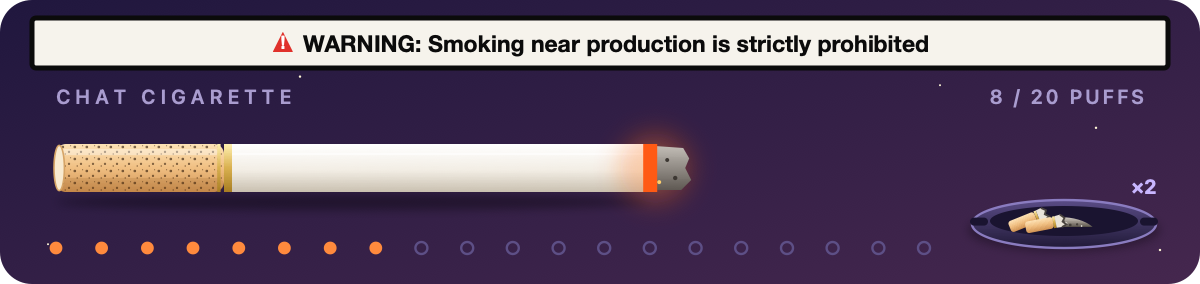
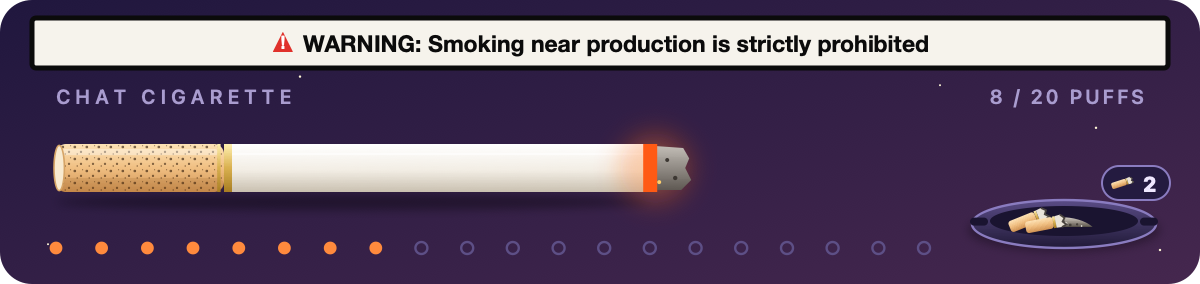
Animations: pull from the pack and light, roll a joint, stub it out; ashtray count badge
- first puff: a cigarette slides out of the pack and a lighter lights it; a joint rolls, then lights
- burn-out card: the newest butt drops into the ashtray and is stubbed out (sparks + smoke)
- a count badge on both ashtrays, always shown
- remember a joint picked with the pre-0.4 /smoke
- 34 tests

Changed region(s): [[0.8942, 0.5634, 0.9867, 0.7324]]

diff --git a/hooks/art.ts b/hooks/art.ts
@@ -79,6 +79,7 @@ function defs(night: number): string {
 <linearGradient id="night" x1="0" y1="0" x2="1" y2="0"><stop offset="0" stop-color="#ffe6a8"/><stop offset="1" stop-color="#c8b6ff"/></linearGradient>
 <linearGradient id="tray" x1="0" y1="0" x2="0" y2="1"><stop offset="0" stop-color="#5a4c86"/><stop offset="1" stop-color="#211a38"/></linearGradient>
 <radialGradient id="glow"><stop offset="0" stop-color="#ffd27a"/><stop offset=".35" stop-color="#ff7a1a" stop-opacity=".85"/><stop offset="1" stop-color="#ff3d00" stop-opacity="0"/></radialGradient>
+<linearGradient id="flame" x1="0" y1="1" x2="0" y2="0"><stop offset="0" stop-color="#3b6cff"/><stop offset=".22" stop-color="#ffd84a"/><stop offset=".65" stop-color="#ff8a1a"/><stop offset="1" stop-color="#ff4a00" stop-opacity=".2"/></linearGradient>
 <radialGradient id="leafGlow"><stop offset="0" stop-color="#ff9a3c" stop-opacity=".45"/><stop offset="1" stop-color="#ff9a3c" stop-opacity="0"/></radialGradient>
 <filter id="blur" x="-50%" y="-50%" width="200%" height="200%"><feGaussianBlur stdDeviation="2.2"/></filter>
 <filter id="soft" x="-50%" y="-50%" width="200%" height="200%"><feGaussianBlur stdDeviation="5"/></filter>
@@ -255,6 +256,40 @@ function ashHeap(cx: number, base: number, maxW: number, maxH: number, ash: numb
   return `<path d="M ${(cx - w).toFixed(1)} ${base} C ${(cx - w * 0.55).toFixed(1)} ${(base - h * 1.35).toFixed(1)} ${(cx + w * 0.55).toFixed(1)} ${(base - h * 1.35).toFixed(1)} ${(cx + w).toFixed(1)} ${base} Z" fill="url(#ashHeap)"/>${specks}`
 }
 
+// عدّاد المكتة: كم عقب فيها اليوم — دايماً ظاهر (حتى صفر).
+function countBadge(x: number, y: number, n: number): string {
+  return `<g data-count="${n}"><rect x="${x - 17}" y="${y - 9}" width="34" height="17" rx="8.5" fill="#241b40" stroke="#8a7cc0" stroke-width="1"/>
+${buttShape('cigarette', x - 7, y - 0.5, -18, 0.45)}<text x="${x + 7}" y="${y + 3.8}" text-anchor="middle" font-family="${FONT}" font-size="10.5" font-weight="800" fill="#efe8ff">${n}</text></g>`
+}
+
+// قدّاحة + شعلة بتولّع الطرف (حركة بتصير مرة وحدة لما تنولّع سيجارة/جوينت جديد).
+function lighter(x: number, y: number): string {
+  return `<g opacity="0"><animate attributeName="opacity" values="0;1;1;0" keyTimes="0;.12;.75;1" begin=".8s" dur="1.1s" fill="freeze"/>
+<rect x="${x - 7}" y="${y + 9}" width="15" height="26" rx="3" fill="#d23a2e"/><rect x="${x - 7}" y="${y + 4}" width="15" height="6" rx="1.5" fill="#c9c9cf"/>
+<path d="M ${x} ${y + 4} c -5 -4 -4 -10 0 -16 c 4 6 5 12 0 16 z" fill="url(#flame)"><animateTransform attributeName="transform" type="scale" values="1 1;1 1.12;1 .95;1 1.08" dur=".25s" repeatCount="indefinite" additive="sum"/></path></g>`
+}
+
+// شرار ونفخة دخان لما العقب ينطفى بالمكتة.
+function stubPuff(x: number, y: number, at: number): string {
+  let sparks = ''
+  const dirs = [[-14, -9], [-6, -15], [4, -14], [13, -8], [16, 1]]
+  dirs.forEach(([dx, dy], i) => {
+    sparks += `<circle cx="${x}" cy="${y}" r="${1.4 - i * 0.12}" fill="#ffb347" opacity="0">
+<animate attributeName="opacity" values="0;1;0" begin="${at}s" dur=".55s" fill="freeze"/>
+<animateTransform attributeName="transform" type="translate" values="0 0; ${dx} ${dy}" begin="${at}s" dur=".55s" fill="freeze"/></circle>`
+  })
+  return `${sparks}<circle cx="${x}" cy="${y - 3}" r="3" fill="none" stroke="#ddd6f3" stroke-width="2.2" opacity="0" filter="url(#blur)">
+<animate attributeName="r" values="3;18" begin="${at}s" dur="1s" fill="freeze"/><animate attributeName="opacity" values="0;.75;0" begin="${at}s" dur="1s" fill="freeze"/></circle>`
+}
+
+// آخر عقب بينزل عالمكتة وبينطفى (مرة وحدة لما يطلع كرت النهاية).
+function stubIn(shape: string, x: number, y: number): string {
+  return `<g data-stub="1"><g opacity="0"><animate attributeName="opacity" values="0;1" dur=".2s" fill="freeze"/>
+<animateTransform attributeName="transform" type="translate" values="118 -30; 6 -5; 0 0" keyTimes="0;.78;1" dur="1.1s" fill="freeze"/>
+<g><animateTransform attributeName="transform" type="rotate" values="-55 ${x} ${y}; 10 ${x} ${y}; 0 ${x} ${y}" keyTimes="0;.82;1" dur="1.1s" fill="freeze"/>${shape}</g></g>
+${stubPuff(x + 16, y, 1.05)}</g>`
+}
+
 // المكتة (المنفضة) بآخر السيجارة: الرماد فيها بيزيد مع كل سحبة، وأعقاب اليوم بتضل فيها.
 function ashtray(butts: readonly Style[], ash: number): string {
   const cx = 532
@@ -271,9 +306,7 @@ ${ashHeap(cx - 2, cy + 1.5, 24, 10, ash)}`
   shown.forEach((b, i) => {
     out += buttShape(b, cx - 18 + i * 8.5, cy - 2 + (i % 2) * 2, -22 + i * 11, 0.82)
   })
-  if (n > 0) {
-    out += `<text x="${cx + 40}" y="${cy - 15}" text-anchor="middle" font-family="${FONT}" font-size="10" font-weight="700" fill="#c8b6ff">×${n}</text>`
-  }
+  out += countBadge(cx + 36, cy - 20, n)
   return out + '</g>'
 }
 
@@ -287,7 +320,7 @@ function fallingAsh(fromX: number, fromY: number): string {
 }
 
 // المنفضة الكبيرة بكرت المشاركة: أعقاب اليوم كلها مفروشة فيها.
-function bigTray(butts: readonly Style[]): string {
+function bigTray(butts: readonly Style[], animated: boolean): string {
   const n = butts.length
   const shown = butts.slice(-12)
   const m = shown.length
@@ -300,11 +333,10 @@ ${ashHeap(300, 122, 70, 15, 1)}`
     const x = 300 + (i - (m - 1) / 2) * spacing
     const y = 114 + (i % 2 ? 5 : 0)
     const rot = (i % 2 ? 14 : -12) + (((i * 37) % 9) - 4)
-    out += buttShape(b, x, y, rot, 1.35)
+    const shape = buttShape(b, x, y, rot, 1.35)
+    out += animated && i === m - 1 ? stubIn(shape, x, y) : shape
   })
-  if (n > m) {
-    out += `<text x="462" y="124" font-family="${FONT}" font-size="12" font-weight="700" fill="#c8b6ff">+${n - m}</text>`
-  }
+  out += countBadge(478, 108, n)
   return out + '</g>'
 }
 
@@ -377,10 +409,29 @@ function burning(s: Scene, f: number): string {
     }
   }
 
+  // أول نَفَس: سيجارة بتطلع من الباكيت، أو جوينت بينلفّ — وبعدين القدّاحة بتولّعه (مرة وحدة).
+  const intro = s.animated && s.puffs === 1 && !s.isUnlit
+  if (intro) {
+    stick = isJoint
+      ? `<g data-intro="roll" transform="translate(0 ${cy})"><g><animateTransform attributeName="transform" type="scale" values="1 0.06; 1 1.18; 1 1" keyTimes="0;.72;1" dur="1.1s" fill="freeze"/><g transform="translate(0 ${-cy})">${stick}</g></g></g>`
+      : `<g data-intro="light"><animateTransform attributeName="transform" type="translate" values="-150 0; 8 0; 0 0" keyTimes="0;.8;1" dur=".95s" fill="freeze"/>${stick}</g>`
+    lit = `<g opacity="0"><animate attributeName="opacity" values="0;1" begin="1.15s" dur=".35s" fill="freeze"/>${lit}</g>${lighter(end + 8, cy + hh + 2)}`
+  }
+  // الباكيت: بيضل لحد ما السيجارة تطلع منه، وبعدين بيختفي.
+  const pack =
+    intro && !isJoint
+      ? `<g><animate attributeName="opacity" values="1;1;0" keyTimes="0;.6;1" dur="1.5s" fill="freeze"/>
+<rect x="6" y="${cy - 30}" width="54" height="60" rx="4" fill="#f4f1ea" stroke="#bdb6a8" stroke-width="1"/>
+<rect x="6" y="${cy - 30}" width="54" height="17" rx="4" fill="#c8282a"/><rect x="6" y="${cy - 18}" width="54" height="5" fill="#c8282a"/>
+<path d="M 6 ${cy + 2} L 33 ${cy + 16} L 60 ${cy + 2}" fill="none" stroke="#c8282a" stroke-width="3"/>
+<text x="33" y="${cy - 2}" text-anchor="middle" font-family="${FONT}" font-size="8" font-weight="900" letter-spacing="1" fill="#c8282a">CHAT</text></g>`
+      : ''
+
   return `
 ${header(s.kind, s.puffs, s.ln)}
 <ellipse cx="${(28 + end) / 2}" cy="${cy + hh + 5}" rx="${(end - 28) / 2}" ry="4" fill="#000" opacity=".35" filter="url(#blur)"/>
 ${stick}
+${pack}
 ${lit}
 ${dots}
 ${ashtray(s.butts, f)}`
@@ -401,7 +452,7 @@ ${leaf(520, 132, 13, 3.1, 7)}
 <text x="494" y="22" font-family="${FONT}" font-size="8" font-weight="700" fill="#c8b6ff">z<animate attributeName="opacity" values="0;1;0" dur="2.4s" begin="1.2s" repeatCount="indefinite"/><animateTransform attributeName="transform" type="translate" values="0 6; -4 -6" dur="2.4s" begin="1.2s" repeatCount="indefinite"/></text>
 <text x="300" y="46" text-anchor="middle" font-family="Georgia, 'Times New Roman', serif" font-style="italic" font-size="25" fill="url(#night)">${esc(REST_LINE.replace(/\s*🍁$/, ''))}</text>
 <text x="300" y="74" text-anchor="middle"${dir} font-family="${FONT}" font-size="11" font-weight="700" letter-spacing="${s.ln === 'en' ? 1.6 : 0}" fill="#c8b6ff">${esc(s.stats)}</text>
-${bigTray(s.butts)}
+${bigTray(s.butts, s.animated)}
 <g filter="url(#blur)" stroke="#ddd6f3" fill="none" stroke-linecap="round">${wisp(318, 104, 0, 5, 1.6, 1)}</g>
 <rect x="64" y="150" width="472" height="22" rx="11" fill="#ffffff" fill-opacity=".06" stroke="#ffffff" stroke-opacity=".16"/>
 <text x="300" y="165" text-anchor="middle" font-family="${MONO}" font-size="10.5" fill="#bdb2e0">${esc(INSTALL)}</text>

diff --git a/tests/cigarette.test.tsx b/tests/cigarette.test.tsx
@@ -513,3 +513,58 @@ test('no fresh one while Claude is still saying goodnight', async ($, on) => {
   expect(await ui.find({ type: 'Text', text: '20/20 puffs' })).toBeDefined()
   await ui.unmount()
 })
+
+test('the ashtray always shows how many butts are in it', async ($, on) => {
+  mock.clock(on, { now: NOON })
+  const ui = await $.ui.mount({ ...BAND, surface: 'desktop' })
+  expect(svgSource(await ui.drawn())).toContain('data-count="0"')
+  await ui.unmount()
+})
+
+test('the first puff plays the lighting (cigarette) or rolling (joint) animation, once', async ($, on) => {
+  mock.clock(on, { now: NOON })
+  mock.store(on)
+  on('prompt.submit', ($, e) => ({ text: e.text, context: e.context }))
+  await $.prompt.submit({ text: 'a', wait: false, origin: { kind: 'composer' } })
+  let ui = await $.ui.mount({ ...BAND, surface: 'desktop' })
+  expect(svgSource(await ui.drawn())).toContain('data-intro="light"')
+  await ui.unmount()
+  await $.prompt.submit({ text: 'b', wait: false, origin: { kind: 'composer' } })
+  ui = await $.ui.mount({ ...BAND, surface: 'desktop' })
+  expect(svgSource(await ui.drawn())).not.toContain('data-intro')
+  await ui.unmount()
+})
+
+test('a joint rolls on its first puff', async ($, on) => {
+  mock.clock(on, { now: NOON })
+  mock.store(on)
+  on('prompt.submit', ($, e) => ({ text: e.text, context: e.context }))
+  await $.command.run({ command: 'smoke', args: 'joint', origin: { kind: 'composer' }, presentation: { isFullscreen: false, columns: 80 } })
+  await $.prompt.submit({ text: 'a', wait: false, origin: { kind: 'composer' } })
+  const ui = await $.ui.mount({ ...BAND, surface: 'desktop' })
+  expect(svgSource(await ui.drawn())).toContain('data-intro="roll"')
+  await ui.unmount()
+})
+
+test('when it burns out, the butt gets stubbed out in the ashtray', async ($, on) => {
+  mock.clock(on, { now: NOON })
+  on('prompt.submit', ($, e) => ({ text: e.text, context: e.context }))
+  for (let i = 0; i < 20; i++) await $.prompt.submit({ text: `m ${i}`, wait: false, origin: { kind: 'composer' } })
+  const ui = await $.ui.mount({ ...BAND, surface: 'desktop' })
+  const src = svgSource(await ui.drawn())
+  expect(src).toContain('data-stub="1"')
+  expect(src).toContain('data-count="1"')
+  await ui.unmount()
+})
+
+test('a joint picked with the old /smoke (before 0.4) is still remembered', async ($, on) => {
+  mock.clock(on, { now: NOON })
+  mock.store(on, { style: 'joint' })
+  on('session.start', ($, e) => ({ cwd: e.cwd }))
+  on('command.register', () => ({ value: undefined }) as never)
+  on('session.usage', () => ({ value: { startedAt: 0, context: { window: 200000 }, rateLimits: [] } }) as never)
+  await $.session.start({ cwd: '/tmp', surface: 'terminal', isInteractive: true })
+  const ui = await $.ui.mount({ ...BAND, surface: 'terminal' })
+  expect(await ui.find({ type: 'Text', text: 'CHAT JOINT' })).toBeDefined()
+  await ui.unmount()
+})

diff --git a/hooks/register.tsx b/hooks/register.tsx
@@ -153,14 +153,17 @@ export const register: Register = on => {
       () => false,
     )
     // الافتراضي سيجارة بالإنجليزي؛ اختيارك (/smoke · /smokear · /smokehe · /smokeen) بيضل محفوظ.
-    const [savedKind, savedLang, savedDay, usage, now] = await Promise.all([
+    // 'style' = المفتاح القديم (قبل 0.4) — اللي اختاره من وقتها بيضل محفوظ.
+    const [savedKind, legacyKind, savedLang, savedDay, usage, now] = await Promise.all([
       $.store.get('kind'),
+      $.store.get('style'),
       $.store.get('lang'),
       $.store.get('day'),
       $.session.usage().catch(() => null),
       $.clock.now(),
     ])
-    if (savedKind === 'joint' || savedKind === 'cigarette') await update($, style, () => savedKind)
+    const kind = savedKind ?? legacyKind
+    if (kind === 'joint' || kind === 'cigarette') await update($, style, () => kind)
     if (savedLang === 'ar' || savedLang === 'en' || savedLang === 'he') await update($, lang, () => savedLang)
 
     // منفضة اليوم من المخزن (+ اللي لسا ما انكتب من هالجلسة).

diff --git a/README.md b/README.md
@@ -49,6 +49,8 @@ claude plugin update chat-cigarette@chat-cigarette
 | 🍁 آخر الليل | بعد 12 بالليل الجمل بتمسخر عليك مع الساعة («It's 2:14am. Even your bugs went to sleep.»). ومن 4 لـ5 الصبح سيجارة جديدة ما بتولّع. هاد بالرسمة بس، ورسالتك بتروح عادي |
 | 🍁 آخر نَفَس | كلود بيجاوبك عادي وبيختم بـ «It's time to get some rest 🍁»، وبيطلعلك إشعار |
 | 📦 وحدة كمان؟ | بعد «روح ارتاح»، الرسالة الجاية بتولّع سيجارة جديدة من الباكيت (أو بتلفّ جوينت جديد): «📦 Fresh one from the pack — #2 today». العقب القديم بيضل بالمكتة |
+| 🎬 حركات | سيجارة جديدة بتطلع من الباكيت والقدّاحة بتولّعها · الجوينت بينلفّ وبعدين بيولع · لما تخلص العقب بينزل عالمكتة وبينطفى مع شرار ودخان |
+| 🔢 عدّاد المكتة | جنب المكتة دايماً رقم قديش في أعقاب فيها اليوم |
 | 🧹 `/clear` | سيجارة جديدة، والمنفضة بتضل |
 
 ### الأوامر — Commands
